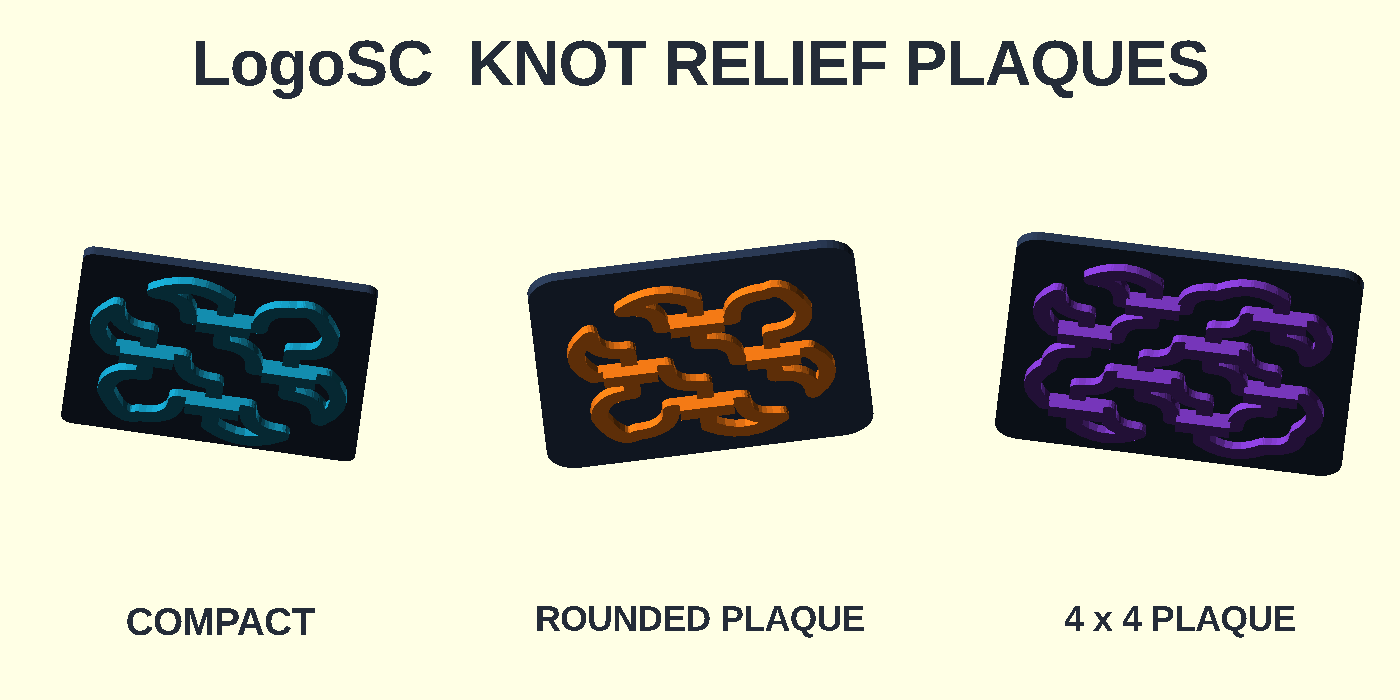
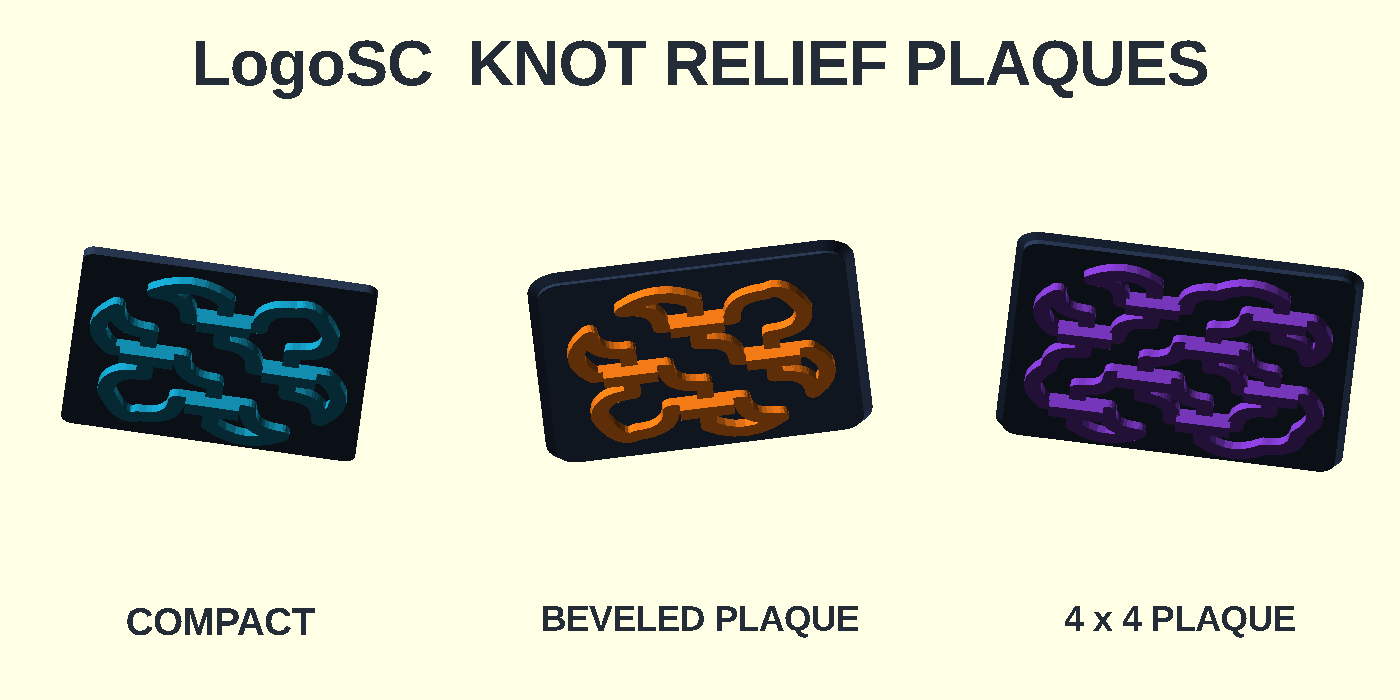
Added Bevel...

diff --git a/LogoSC-User-Manual.md b/LogoSC-User-Manual.md
@@ -1482,6 +1482,9 @@ RenderKnotBasReliefPlaque(
     plateThickness = 1.2,
     plateMargin = 3,
     plateCornerRadius = 3,
+    plateEdgeStyle = "Bevel",
+    plateBevelWidth = 1,
+    plateBevelHeight = 0.6,
     baseHeight = 1.2,
     overpassHeight = 1,
     arcFragments = 10
@@ -1495,13 +1498,19 @@ RenderKnotBasReliefPlaque(
 plate without changing that external height. This turns separate knot or link components into
 one printable plaque.
 
+`plateEdgeStyle` accepts `"None"` or `"Bevel"`. A bevel preserves the automatic outer bounds at
+the bottom, slopes inward by `plateBevelWidth` over `plateBevelHeight`, and then continues as a
+vertical wall to the top surface. The corner radius contracts with the inset, and the requested
+plate thickness remains exact. The bevel width must not exceed `plateMargin`, ensuring the top
+surface still extends beyond the visible ribbon.
+
 ![LogoSC knot relief plaques](images/knot-relief-plaque-gallery.png)
 
-Choose `KnotExample = "PlaqueGallery"` for compact, rounded, and larger-grid plaques, or select
-`KnotOutput = "Plaque"` for an individual Planar example. `KnotReliefUsePreviewColors` displays
-the plate and raised knot in independently configurable contrasting colors. This is a preview
-aid only; ordinary STL export remains uncolored geometry. Edge bevels, bundled ribbons, and
-unified polygon export remain later milestones.
+Choose `KnotExample = "PlaqueGallery"` to compare an unbeveled compact plaque with beveled
+standard and larger-grid plaques, or select `KnotOutput = "Plaque"` for an individual Planar
+example. `KnotReliefUsePreviewColors` displays the plate and raised knot in independently
+configurable contrasting colors. This is a preview aid only; ordinary STL export remains
+uncolored geometry. Bundled ribbons and unified polygon export remain later milestones.
 
 #### Circular braid closures
 

diff --git a/README.md b/README.md
@@ -361,21 +361,26 @@ RenderKnotBasReliefPlaque(
     plateThickness = 1.2,
     plateMargin = 3,
     plateCornerRadius = 3,
+    plateEdgeStyle = "Bevel",
+    plateBevelWidth = 1,
+    plateBevelHeight = 0.6,
     baseHeight = 1.2,
     overpassHeight = 1,
     arcFragments = 10
 );
 ```
 
-The margin is measured beyond the outer ribbon edge. The ribbon base overlaps the plate
-internally, joining separate link components into one printable object while preserving the
-requested total height.
+The margin is measured beyond the outer ribbon edge. `plateEdgeStyle = "Bevel"` slopes the
+outside footprint inward across the requested width and height before continuing vertically to
+the top face; `"None"` retains the original straight wall. The bevel width cannot exceed the
+plate margin. The ribbon base overlaps the plate internally, joining separate link components
+into one printable object while preserving the requested footprint, thickness, and total height.
 
 ![LogoSC knot relief plaques](images/knot-relief-plaque-gallery.png)
 
-Choose `PlaqueGallery` for compact, rounded, and 4-by-4 examples, or choose `Plaque` output for
-an individual knot. The Customizer can give the plate and raised knot contrasting preview
-colors; these colors do not alter exported STL geometry.
+Choose `PlaqueGallery` to compare straight and beveled edges on compact and 4-by-4 examples, or
+choose `Plaque` output for an individual knot. The Customizer can give the plate and raised knot
+contrasting preview colors; these colors do not alter exported STL geometry.
 
 ## Current public API
 

diff --git a/LogoSC-Developer-Notebook.md b/LogoSC-Developer-Notebook.md
@@ -3238,3 +3238,32 @@ Verification boundary:
   bringing the knot suite from 76 to 77.
 - Regenerate the ribbon, bare-relief, and plaque galleries and require complete repository suites
   plus a simple CGAL plaque STL.
+
+### 2026-07-29 — Configurable backing-plate top bevel
+
+Context:
+
+- The automatic plaque had exact dimensions and rounded planar corners but only a vertical outer
+  wall.
+- A softer printable edge should not change the knot relief, silently shrink the advertised
+  footprint, or consume the safety margin beneath the ribbon.
+
+Decision:
+
+- Preserve `"None"` as the original vertical-wall style and add `"Bevel"` as an optional
+  top-edge treatment.
+- Hull the full outer profile at `z = 0` to an inset profile at the bevel height, then extrude
+  that inset profile through the remainder of the plate thickness.
+- Reduce the top corner radius by the bevel width, clamped at zero, so straight edges and rounded
+  corners inset consistently.
+- Require bevel width not to exceed plate margin. Preserve exact outer bounds, plate thickness,
+  and overall plaque height.
+- Append bevel parameters to `RenderKnotBasReliefPlaque()` so established positional calls remain
+  compatible.
+
+Verification boundary:
+
+- Add deterministic results for unchanged outer bounds, inset top bounds, valid edge styles, and
+  adjusted top corner radius, bringing the knot suite from 77 to 79.
+- Update the plaque gallery to compare straight and beveled edges, regenerate its image, and
+  require complete repository suites plus a simple CGAL STL.

diff --git a/LogoSC-Knots-Design.md b/LogoSC-Knots-Design.md
@@ -703,8 +703,16 @@ extrusion grows by the same amount, preserving the exact external dimension repo
 `KnotReliefPlaqueTotalHeight()`. The backing joins otherwise separate link components into one
 printable object.
 
-This milestone deliberately provides only an axis-aligned rounded rectangle. It does not derive
-a tight contour, add bevels, add hanging holes, or calculate a unified output polygon.
+`RenderKnotReliefPlate()` optionally builds a top-edge bevel by hulling a thin copy of the outer
+rounded rectangle to a second rectangle inset at `plateBevelHeight`, then continuing the inset
+profile vertically to the requested plate thickness. `KnotReliefPlaqueTopBounds()` and
+`KnotReliefPlaqueTopCornerRadius()` expose the deterministic inset. The outer footprint and
+height remain exact, and requiring the bevel width not to exceed the plate margin keeps the
+ribbon on the top face.
+
+This milestone deliberately provides only an axis-aligned rounded rectangle with an optional
+linear top bevel. It does not derive a tight contour, round the bottom edge, add hanging holes,
+or calculate a unified output polygon.
 
 ## Rounded cords
 

diff --git a/CHANGELOG.md b/CHANGELOG.md
@@ -98,6 +98,11 @@
   overlaps the source ribbon, removing curved-junction gaps and visible rounded top caps.
 - Added a focused flat-end contour result, bringing the knot suite to 77, and regenerated the
   ribbon, bas-relief, and relief-plaque galleries.
+- Added optional `"None"` and `"Bevel"` backing-plate edge styles with independently controlled
+  bevel width and height. The top-edge bevel preserves the automatic outer footprint, exact
+  plate thickness, rounded-corner progression, and sufficient top margin around the ribbon.
+- Added two deterministic bevel-bound and corner-radius results, bringing the knot suite to 79,
+  plus Customizer controls and a straight-versus-beveled plaque-gallery comparison.
 - Added `Ribbon` Customizer output and a `RibbonGallery` comparing continuous regions,
   underpass-mask interlace, and a 4-by-4 Celtic ribbon grid.
 - Added a side-by-side User Manual comparison clarifying that braids generate crossing topology

diff --git a/LogoSC-OpenSCAD-Command-Line.md b/LogoSC-OpenSCAD-Command-Line.md
@@ -427,7 +427,8 @@ $plaqueGalleryPath = Join-Path `
 ```
 
 Use `KnotOutput = "Plaque"` with a Planar individual example for direct STL export. Plate
-thickness, ribbon-edge margin, and corner radius are independently configurable.
+thickness, ribbon-edge margin, corner radius, edge style, bevel width, and bevel height are
+independently configurable.
 
 ## Example 2: export and inspect a debug PNG
 
